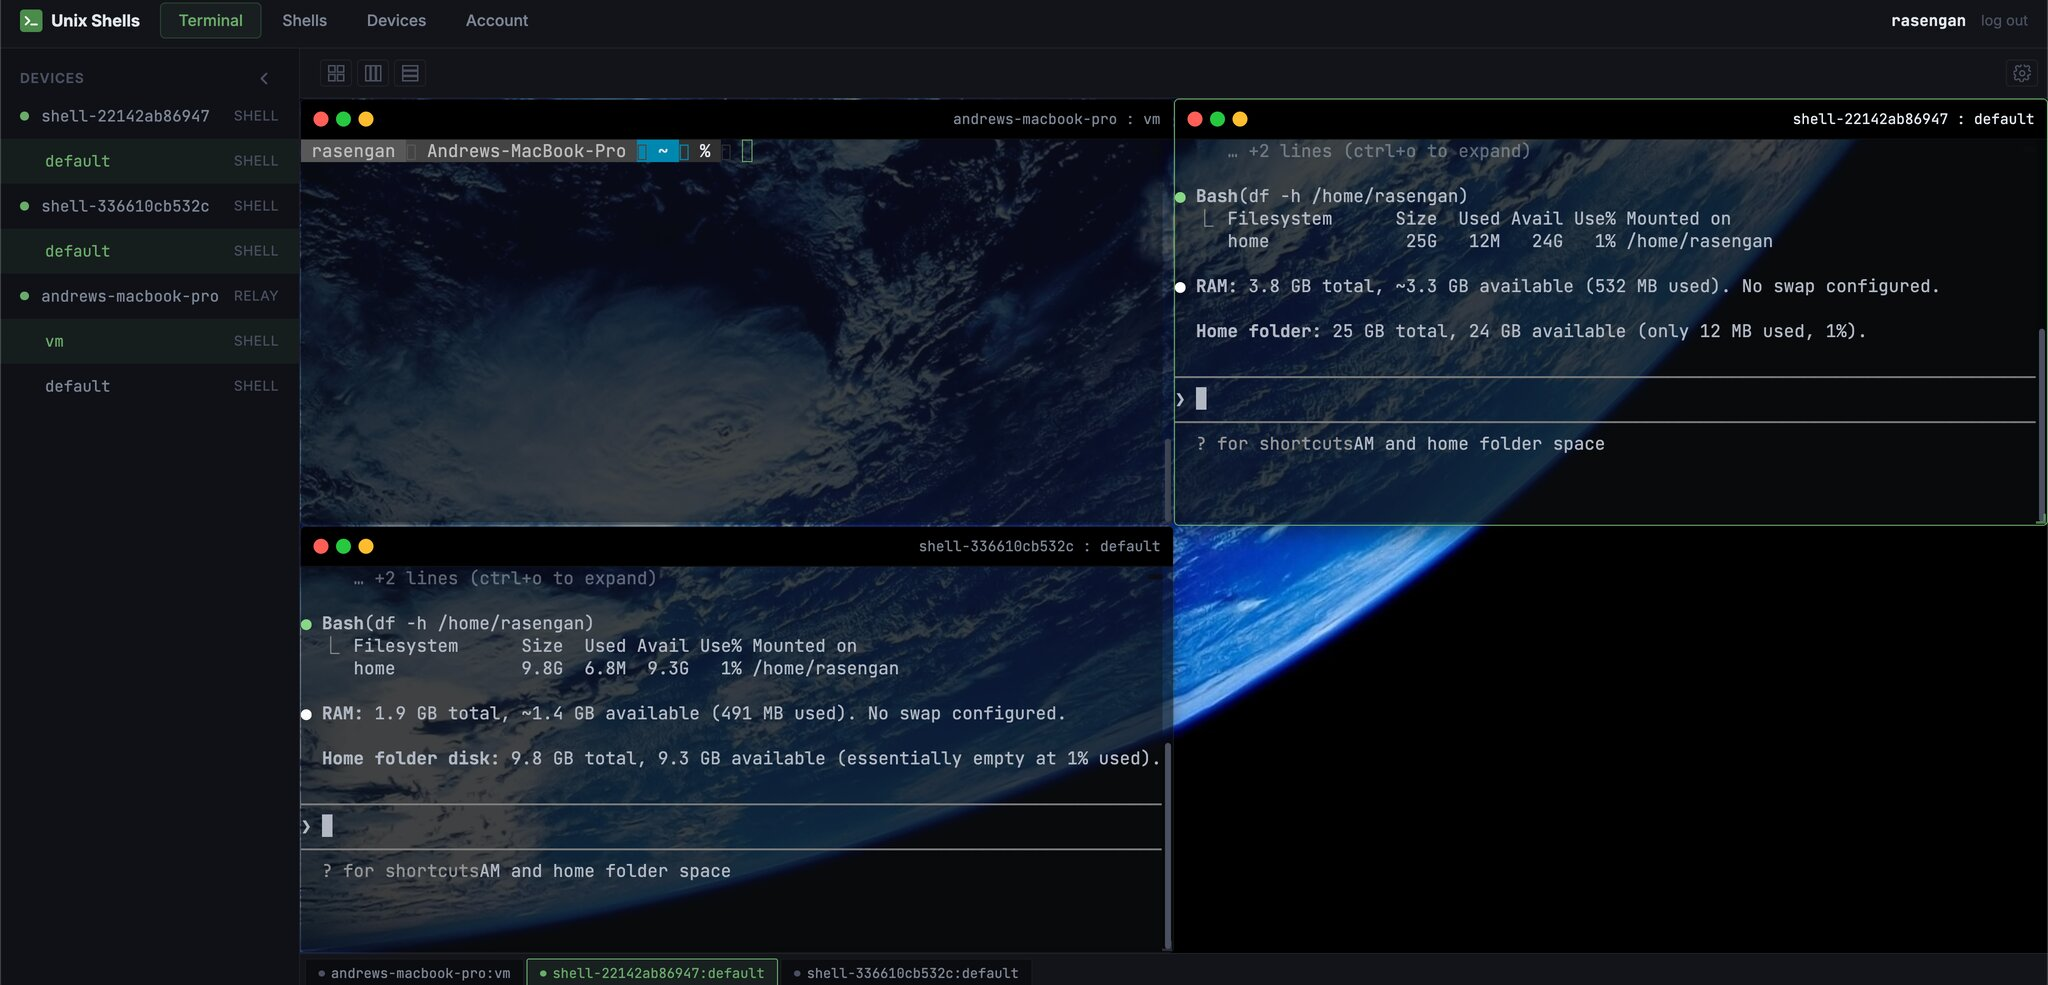
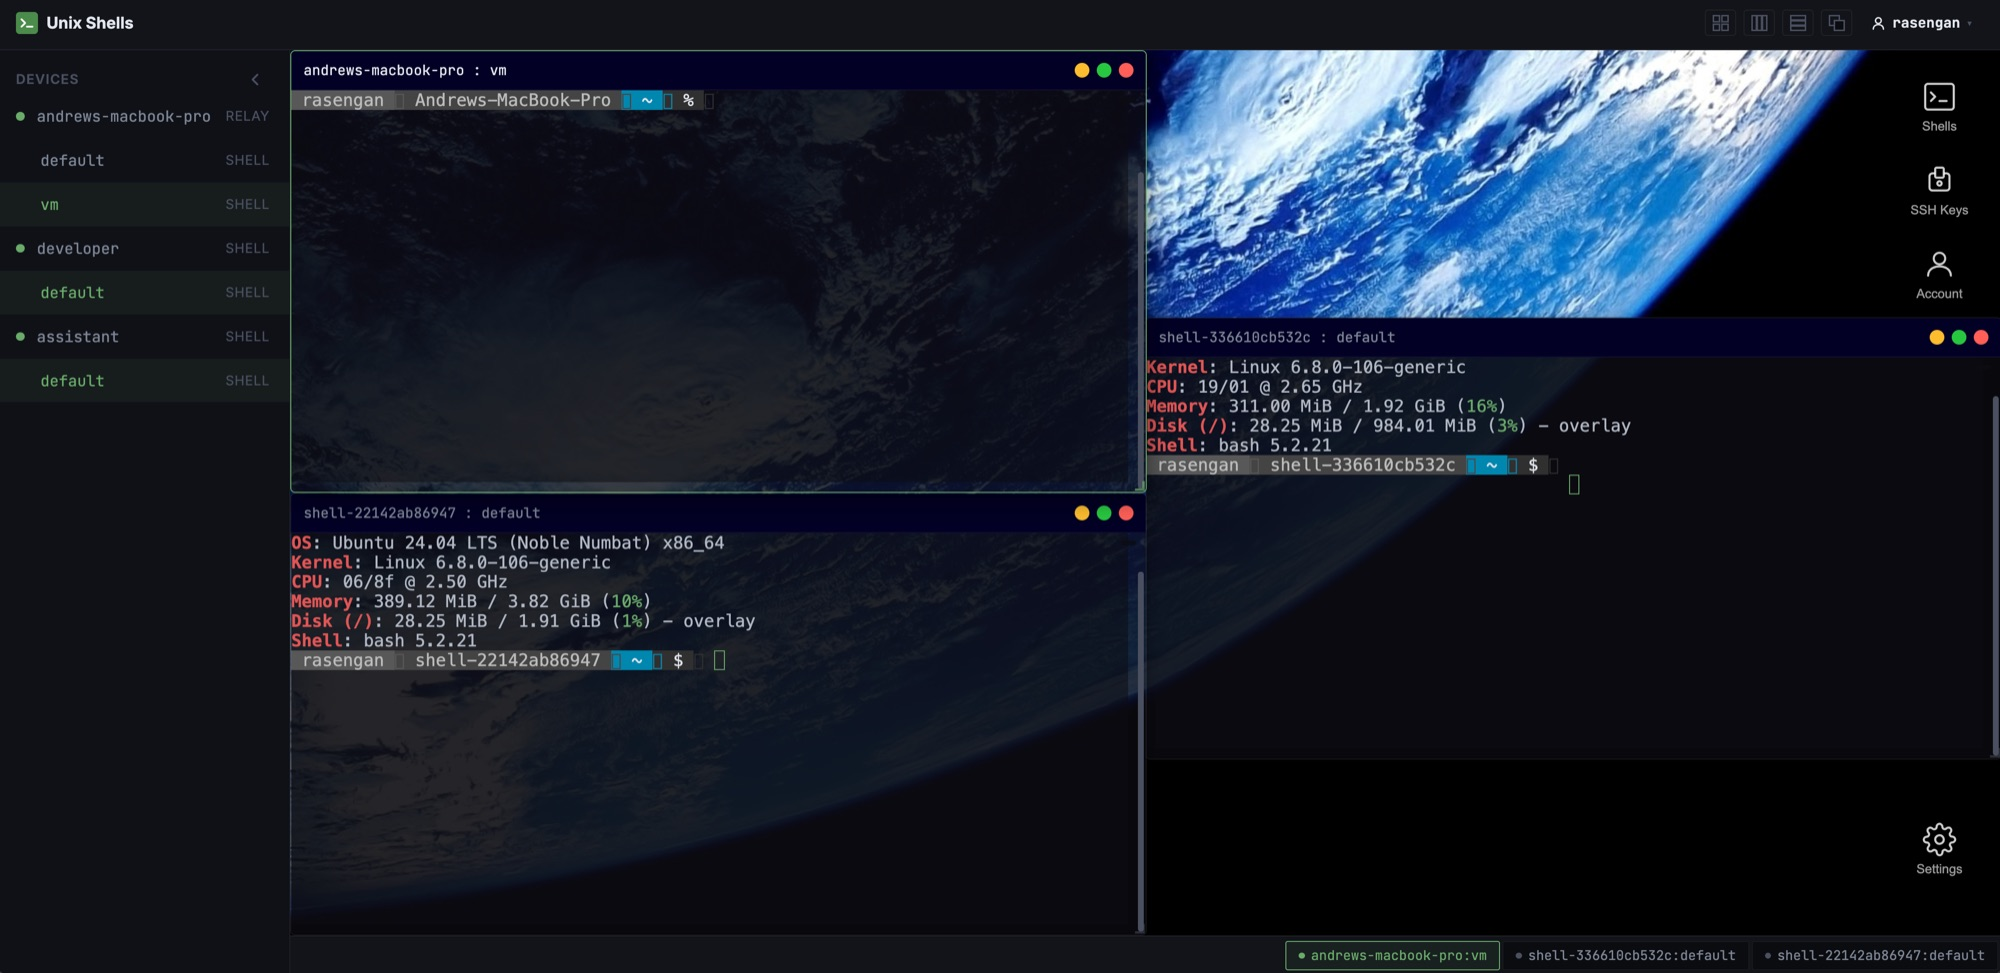
update screenshots

diff --git a/profile/README.md b/profile/README.md
@@ -6,6 +6,8 @@ Linux VMs for developers and open-source tools for terminal access.
 
 ![Terminal Settings](https://raw.githubusercontent.com/unixshells/.github/main/profile/terminal-ss-settings.jpg)
 
+![Settings Window](https://raw.githubusercontent.com/unixshells/.github/main/profile/terminal-ss-settings-windows.jpg)
+
 **[Shells](https://unixshells.com/shells)** — Full KVM virtual machines with Ubuntu 24.04, 200+ tools pre-installed, public IPv6, and dev preview URLs. Run Claude Code, Aider, or any AI coding agent in a persistent session. Connect from any terminal, browser, or phone.
 
 **[latch](https://github.com/unixshells/latch)** — Terminal multiplexer with built-in SSH server and web access. Like tmux, but you can SSH into it or open it in a browser. One binary, zero config. Use it standalone on any machine — with a public IP, Tailscale, or WireGuard, no relay needed.
